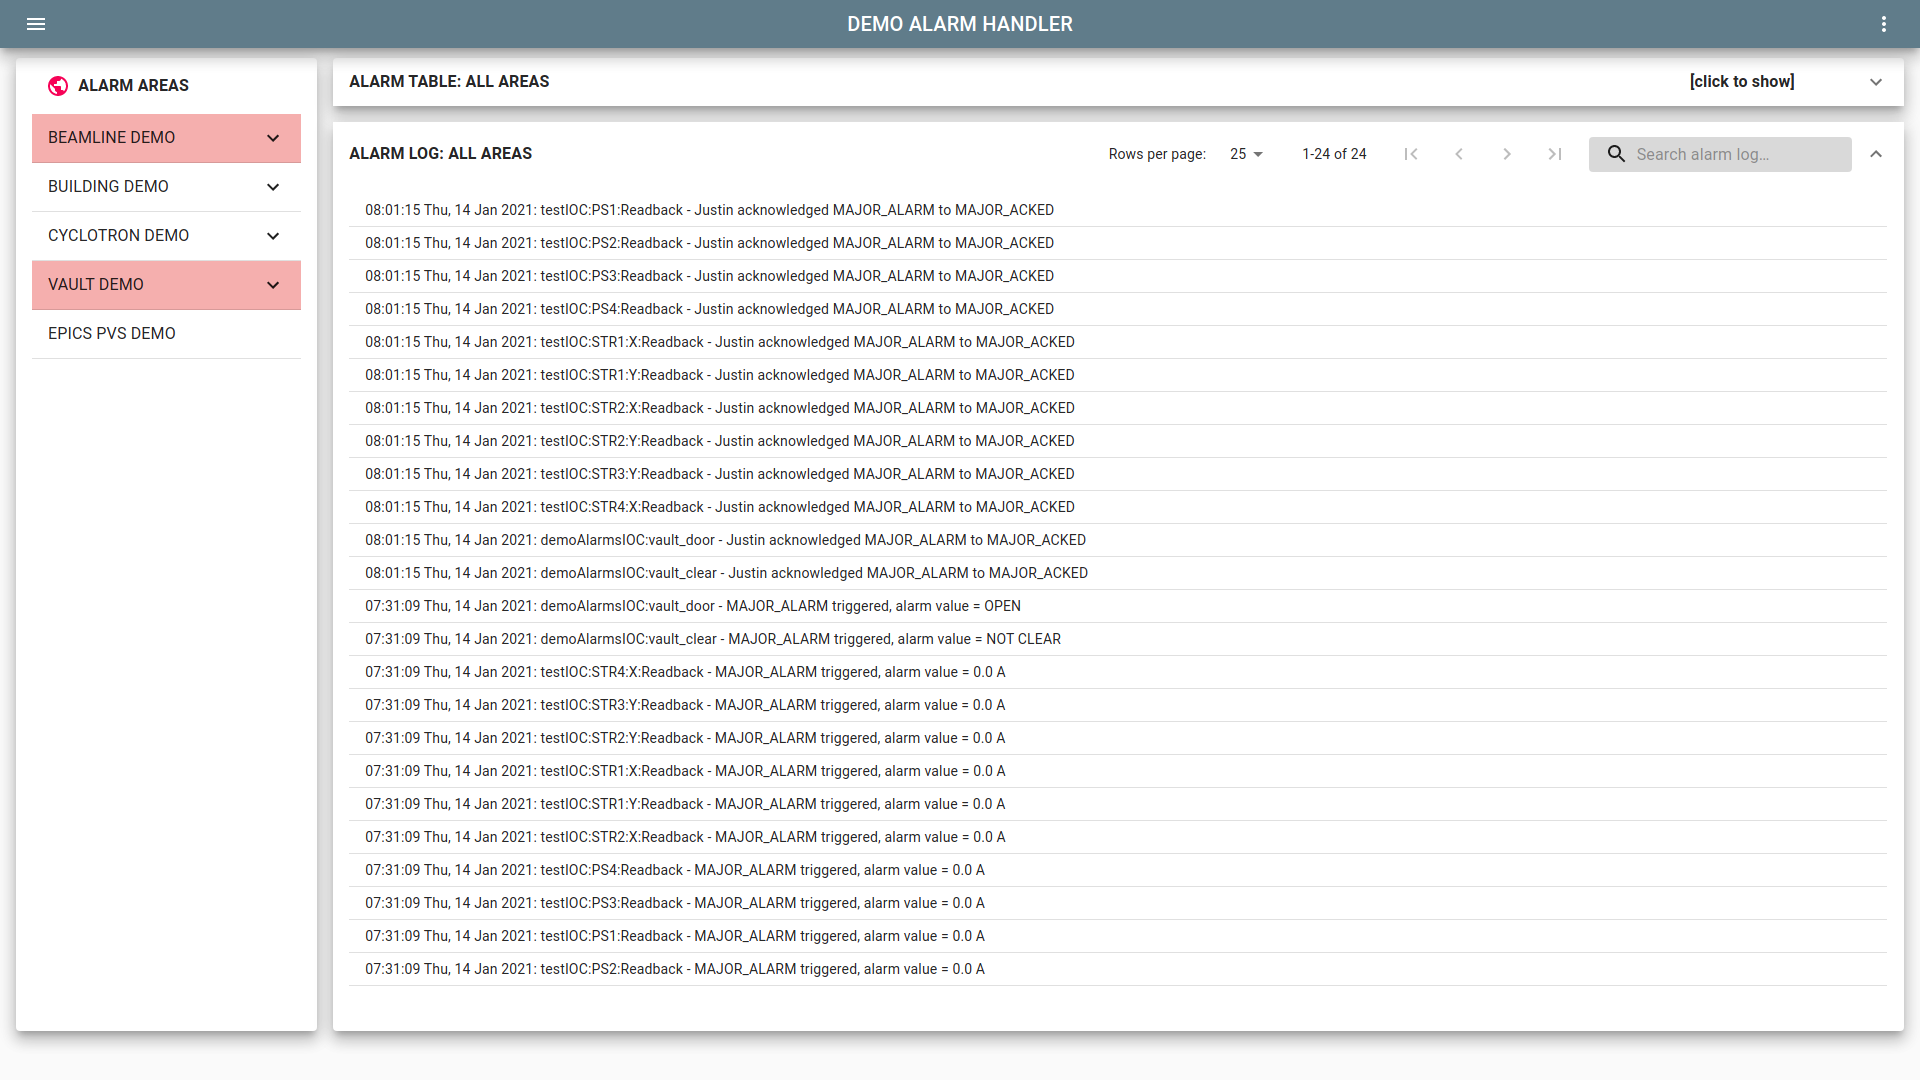
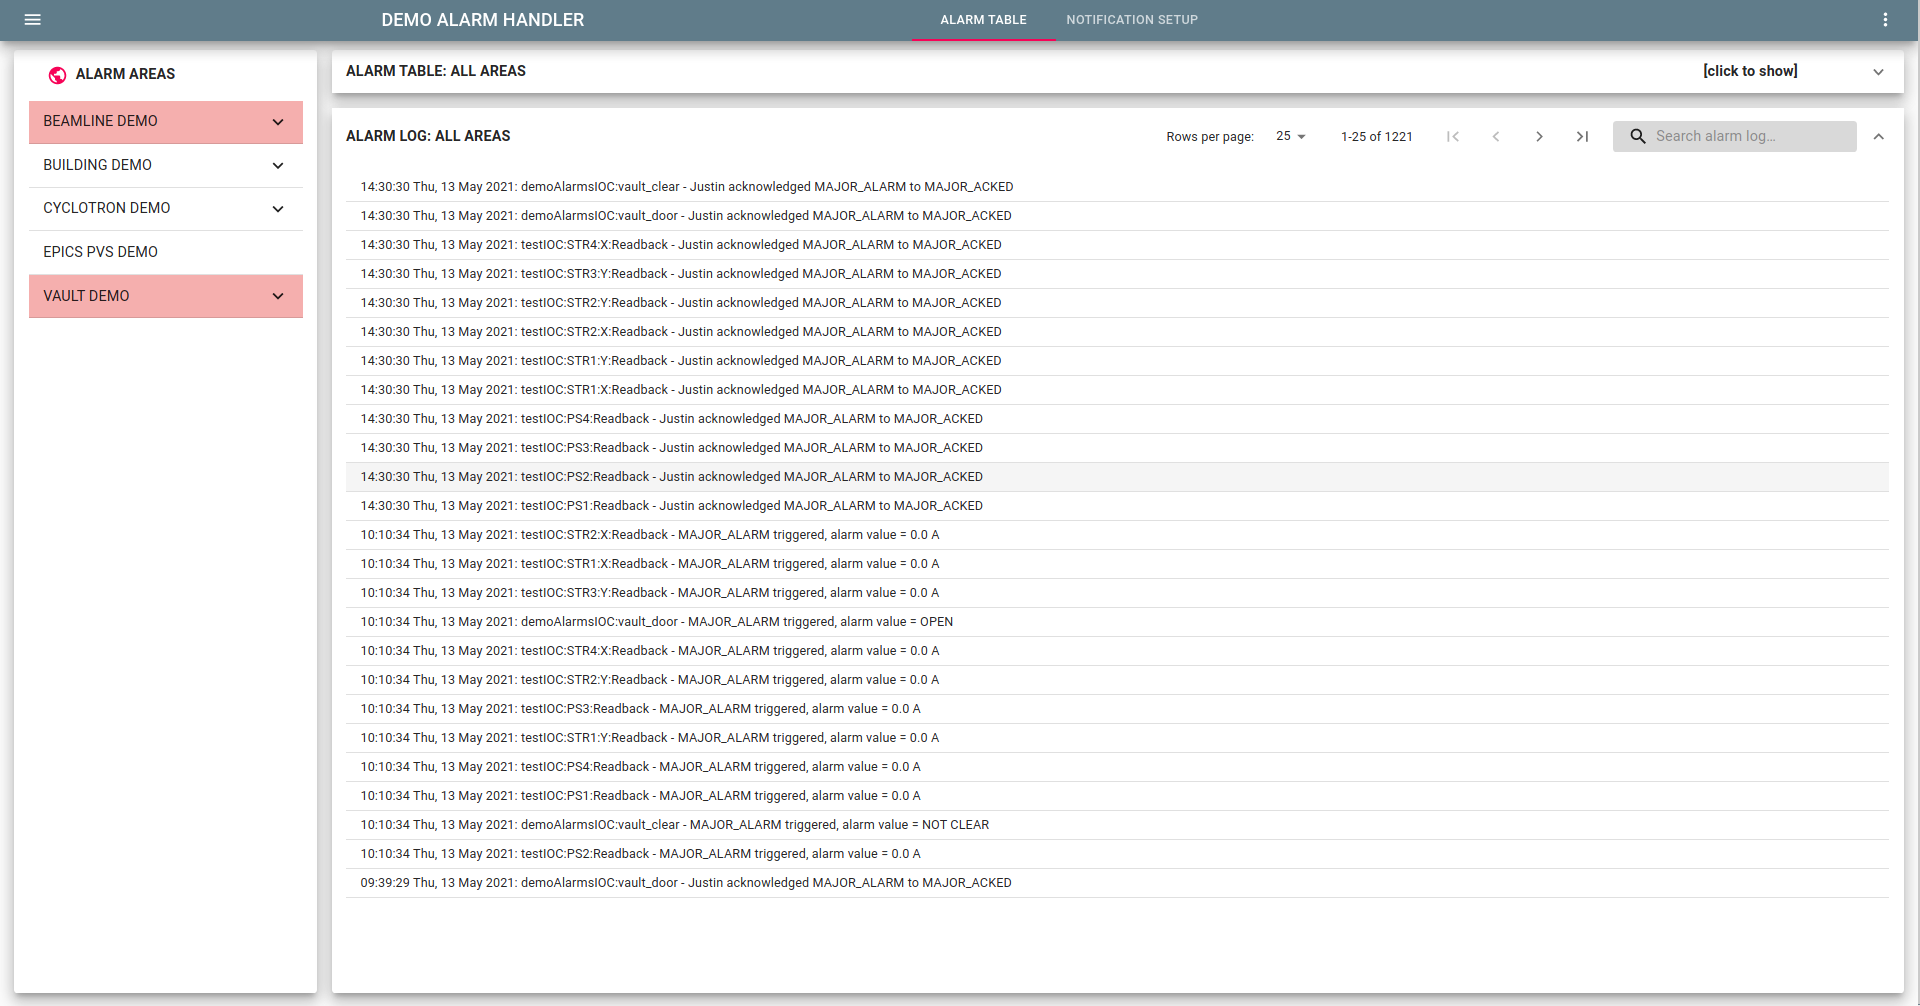
Update some of alarm handler docs

Changed region(s): [[0.1875, 0.1849, 0.5625, 0.9245], [0.0, 0.0, 1.0, 0.339], [0.0, 0.9553, 1.0, 1.0]]

diff --git a/ReactApp/styleguide.config.js b/ReactApp/styleguide.config.js
@@ -234,6 +234,14 @@ module.exports = {
                   content: 'src/docs/alarmHandler/environment.md',
                 },
                 {
+                  name: 'Setting up email notifications',
+                  content: 'src/docs/alarmHandler/emailNotification.md',
+                },
+                {
+                  name: 'Setting up Signal notifications',
+                  content: 'src/docs/alarmHandler/signalNotification.md',
+                },
+                {
                   name: 'MongoDB seed data',
                   content: 'src/docs/alarmHandler/seedData.md',
                   sections: [
@@ -246,8 +254,8 @@ module.exports = {
                       content: 'src/docs/alarmHandler/pvListJson.md',
                     },
                     {
-                      name: 'users.json',
-                      content: 'src/docs/alarmHandler/usersJson.md',
+                      name: 'Users',
+                      content: 'src/docs/alarmHandler/Users.md',
                     },
                   ]
                 },

diff --git a/ReactApp/src/docs/alarmHandler/alarmAreas.md b/ReactApp/src/docs/alarmHandler/alarmAreas.md
@@ -7,6 +7,7 @@ Each area can be expanded/contracted to reveal/hide the subAreas within that are
 |                                        BEAMLINE DEMO Area (subAreas hidden)                                         |                                       BEAMLINE DEMO Area (subAreas shown)                                       |
 | :-----------------------------------------------------------------------------------------------------------------: | :-------------------------------------------------------------------------------------------------------------: |
 | <img src="img/alarmHandler/alarmSetup_AlarmList_Contracted.png" alt="alarmSetup_AlarmList_Contracted" width="80%"/> | <img src="img/alarmHandler/alarmSetup_AlarmList_Expanded.png" alt="alarmSetup_AlarmList_Expanded" width="80%"/> |
+
 <center>*Area with subAreas hidden or shown*</center>
 
 <br/>
@@ -35,7 +36,25 @@ A disabled area/subArea is reflected with a grey colour as shown below. This fol
 <br/><br/>
 
 <br/>
-**Admin actions - Adding a new pv**
+**Global actions**
+
+The **ALARM AREAS** section also has a global button (_`world icon`_ on the top left) that a user can click (left click) to select all the areas (complete alarm handler). Right clicking this icon enables a user to acknowledge or enable/disable all the areas. This is shown below.
+
+<center><img src="img/alarmHandler/alarmSetup_AlarmList_Global.png" alt="alarmSetup_AlarmList_Global" width="35%"/></center>  
+<center>*Global alarm handler actions*</center>
+<br/><br/>
+
+<br/>
+**ADMINISTRATOR ACTIONS**
+
+A set of admin actions can also be executed from the **ALARM AREAS** list as shown below. Only alarmAdmin role users can execute these actions.
+
+<center><img src="img/alarmHandler/alarmSetup_AlarmList_Admin.png" alt="alarmSetup_AlarmList_Admin" width="35%"/></center>  
+<center>*Alarm admin actions on ALARM AREAS list*</center>
+<br/><br/>
+
+<br/>
+**Admin action - Add new pv**
 
 To add a new pv right click the relevant area/subArea and under the `Alarm admin actions` menu click on `Add new pv`. This opens up the add pv dialog as shown below. The `ADD` button of the dialog is disabled until a valid live pv name is typed in. Multiple pvs can be added simultaneously by clicking the `+` icon next to the pv name.
 
@@ -43,13 +62,18 @@ To add a new pv right click the relevant area/subArea and under the `Alarm admin
 <center>*Add pv dialog*</center>
 <br/><br/>
 
-**NOTE:** Only alarmAdmin role users can execute any alarm admin actions. 
+Pvs can be deleted through the **ALARM TABLE** as shown in the next section.
 
 <br/>
-**Global actions**
+**Admin action - Add new subArea**
 
-The **ALARM AREAS** section also has a global button (*`world icon`* on the top left) that a user can click (left click) to select all the areas (complete alarm handler). Right clicking this icon enables a user to acknowledge or enable/disable all the areas. This is shown below.
+To add a new subArea right click the relevant area and under the `Alarm admin actions` menu click on `Add new subArea`. This opens up the add subArea dialog as shown below. Roles can also be added to a given subArea. If roles are not defined the subArea is visible to all alarm users, if defined they're only visible to the roles specified.
 
-<center><img src="img/alarmHandler/alarmSetup_AlarmList_Global.png" alt="alarmSetup_AlarmList_Global" width="35%"/></center>  
-<center>*Global alarm handler actions*</center>
+<center><img src="img/alarmHandler/alarmSetup_addsubArea_dialog.png" alt="alarmSetup_addsubArea_dialog" width="60%"/></center>  
+<center>*Add subArea dialog*</center>
 <br/><br/>
+
+<br/>
+**Admin action - Edit/Delete subArea**
+
+To edit/delete an existing subArea click the relevant menu item under the `Alarm admin actions` menu.

diff --git a/ReactApp/src/docs/alarmHandler/alarmNotification.md b/ReactApp/src/docs/alarmHandler/alarmNotification.md
@@ -1,9 +1,14 @@
-The alarm handler can be configured to notify a user when an alarm is triggered. Currently the alarm handler can only notify via email. In future we hope to expand this to SMS and WhatsApp.
+The alarm handler can be configured to notify a user when an alarm is triggered. Currently the alarm handler can only notify via email or the Signal messenger app. In future we hope to expand this to SMS and WhatsApp.
 
 **Email notification**<br/>
 The alarm server uses the Python [smtplib module](https://docs.python.org/3/library/smtplib.html) to define an SMTP client session object that is used to send mail to a machine with an SMTP or ESMTP listener daemon.
 
-The SMTP server settings are configured through environment variables as shown in the section <b>Setting Up Alarm Server</b>. The `SMTP_USER` and `SMTP_PASS` variables do not need to be declared if the smtp server does not require login. Once the SMTP server settings have been configured correctly, users that have been set to notify via email in the user notification setup (see section <b>User notification view
+The SMTP server settings are configured through environment variables as shown in the section <b>Setting up email notifications</b>. The `SMTP_USER` and `SMTP_PASS` variables do not need to be declared if the smtp server does not require login. Once the SMTP server settings have been configured correctly, users that have been set to notify via email in the user notification setup (see section <b>User notification view
 </b>) will be notified via email.
+
+**Signal notification**<br/>
+The alarm server uses the Python [signal-cli-rest-api](https://github.com/SebastianLuebke/signal-cli-rest-api) to interact with the Signal command line interface through http requests.
+
+The Signal server settings are configured through environment variables as shown in the section <b>Setting up Signal notifications</b>. The Signal account must subsequently be linked to the server as described in the same section. Once the Signal server has been linked correctly, users that have been set to notify via Signal in the user notification setup (see section <b>User notification view </b>) will be notified via Signal.
 
 All notification events, including failures to notify, are logged in the global alarm handler log and can be viewed in the front end (user interface).

diff --git a/ReactApp/src/docs/alarmHandler/environment.md b/ReactApp/src/docs/alarmHandler/environment.md
@@ -11,11 +11,16 @@ The alarm server is deployed with the following default parameters:
 | AH\_DEBUG | false | Directive to print additional data useful for debugging the alarm handler to the terminal
 | AH\_TZ | Etc\/UTC (Canonical +00:00) | Time zone setting for alarm handler server. This is used when dates are formatted to strings for notification. Set as per https://en.wikipedia.org/wiki/List_of_tz_database_time_zones
 | | |
+| | |
 | SMTP_HOST | | SMTP server hostname. Required for alarm handler to notify alarm events via email
 | SMTP_PORT | | SMTP server port number. Required for alarm handler to notify alarm events via email
 | SMTP_SENDER | | SMTP sender email address. Required for alarm handler to notify alarm events via email
 | SMTP_USER | | Username to log into SMTP server. Optional - leave blank if no login required
 | SMTP_PASS | | Password to log into SMTP server. Optional - leave blank if no login required
+| | |
+| | |
+| SIGNAL\_CLI\_REST\_API\_PORT | 8000 | Python signal-cli-rest-api port
+| SIGNAL\_ACC\_NUMBER |  | Mobile number used for Signal account. Must be in E.164 format as per https://en.wikipedia.org/wiki/E.164
 </center>
 <center>*Table 1: Default alarm server configuration*</center>
 <br/><br/>
@@ -58,14 +63,6 @@ Edit .env file and set new timezone (as per https://en.wikipedia.org/wiki/List_o
 ```
 
 <br/>
-**Configuring SMTP server settings for email notification:**
-
-Edit .env file and set server settings (in this example login credentials have been omitted as the server does not require login):
-```bash
-    SMTP_HOST=smtpserver.lab.edu
-    SMTP_PORT=12345
-    SMTP_SENDER=alarmnotifier@lab.edu
-```
 
 **NOTE:** If the alarm database name is changed, upon restart of the alarm handler, a new database with the set name is created and initialised with seed data (see next section for details on seed data). **The alarm server will no longer point to the previous alarm database and historical alarm data will not be accessible!** For this reason it is recommended that the alarm database name is set as desired before deploying into production or saving critical data onto the database.
 

diff --git a/ReactApp/src/docs/alarmHandler/signalNotification.md b/ReactApp/src/docs/alarmHandler/signalNotification.md
@@ -1,0 +1,44 @@
+To enable Signal notifications first set the server port and the Signal account number through environment variables.
+
+The server port defaults to 8000 if not set.
+
+The Signal account number must be in E.164 format as per https://en.wikipedia.org/wiki/E.164 .
+
+Edit .env file and set:
+
+```bash
+    SIGNAL_ACC_NUMBER=+12345678901
+    SIGNAL_CLI_REST_API_PORT=8000
+```
+
+<br/>
+
+The next step is to link the Signal account (number above) to the server. **To link the device you will require a mobile smartphone with the Signal app installed and logged in with the above Signal account number.**
+
+On a browser navigate to the signal-cli-rest-api web server which can be found at http://localhost:8000/docs if RAS is running on the local PC or at http://XXX.XXX.XXX.XXX:8000/docs where XXX... is the IP of the remote server.
+
+<br/>
+
+You will be presented with the web interface below.
+
+<center>
+<img src="img/alarmHandler/signal-cli-rest-api.png" alt="signal-cli-rest-api" width="100%"/>
+</center>
+<center>*signal-cli-rest-api web server*</center>
+<br/><br/>
+
+To link the device follow the steps below:
+1. On the signal-cli-rest-api web server under the **register** methods click on **/register/{number}/link**
+2. Click on the **[Try it out]** button
+3. Enter the Signal account number (as above in E.164 format) in the **number** input field and click on the **[Execute]** button
+4. After a few seconds a response will be shown with a QR code, ensure the response code is 200 - HTTP OK success response
+5. In the Signal app on the mobile smartphone:
+   * Navigate to **Settings** > **Linked devices**
+   * Click on the **(+)** icon to link a new device
+   * Use the smartphone camera to scan the QR code shown on the webserver from above
+   * Click **Link device** when prompted
+   * A **Device approved** message will confirm that the device has been linked
+
+To verify the link on the server:
+   * Navigate from the React Automation Studio root folder to `./signalcli/signal-cli-config/data/`
+   * Verify that a file with filename of the Signal account number has been created at that location

diff --git a/ReactApp/src/docs/alarmHandler/alarmSetup.md b/ReactApp/src/docs/alarmHandler/alarmSetup.md
@@ -1,12 +1,4 @@
-The remainder of the user guide addresses the alarm handler user interface. This is comprised of two views - an alarm setup view and a user notification view.
-
-Use the moreVert drawer menu (three dots on top right) to switch between the alarm setup and user notification views as shown below.
-
-<center>
-<img src="img/alarmHandler/alarmSetup_userNotification_click2.png" alt="alarmSetup_userNotification_click" width="100%"/>
-</center>
-<center>*Navigating between alarm setup and user notification views using moreVert drawer menu*</center>
-<br/><br/>
+The remainder of the user guide addresses the alarm handler user interface. This is comprised of two views - an alarm table view and a notification setup view. Use the tabs on top to switch between the alarm table view and notification setup views.
 
 The alarm setup view comprises of three areas - the **ALARM AREAS** menu list, the **ALARM TABLE** and the **ALARM LOG** as shown below.
 

diff --git a/ReactApp/src/docs/alarmHandler/seedData.md b/ReactApp/src/docs/alarmHandler/seedData.md
@@ -1,10 +1,9 @@
-The first time the alarm handler is run an alarm database is created and initialised with seed data from three json files.
+The first time the alarm handler is run an alarm database is created and initialised with seed data from two json files.
 
 These files can be found, from the React Automation Studio root folder, at:
 ```bash
     ./alarmHandlerDbInit/initDBData/config.json
     ./alarmHandlerDbInit/initDBData/pvList.json
-    ./alarmHandlerDbInit/initDBData/users.json
 ```
 
 **NOTE:** Subsequent changes to these files will only take effect if you delete the existing alarm database or prune the Docker volume attached to the MongoDB server on which the alarm database resides. **This will result in all data stored in the previous alarm database being deleted permanently!** For this reason it is recommended that you set these files up correctly before starting the alarm server.

diff --git a/ReactApp/src/docs/alarmHandler/serverLogging.md b/ReactApp/src/docs/alarmHandler/serverLogging.md
@@ -6,9 +6,9 @@ The table below lists the alarm actions/events and parameters that the alarm ser
 | Alarm triggered          |     X     |      X       |    X     |          |
 | Alarm acknowledged       |     X     |      X       |          |    X     |
 | Alarm demoted            |     X     |      X       |          |          |
-| PV enabled/disabled      |     X     |              |          |          |
-| SubArea enabled/disabled |     X     |              |          |          |
-| Area enabled/disabled    |     X     |              |          |          |
+| PV enabled/disabled      |     X     |              |          |    X     |
+| SubArea enabled/disabled |     X     |              |          |    X     |
+| Area enabled/disabled    |     X     |              |          |    X     |
 </center>
 <center>*Table 4: Actions and events logged by alarm server*</center>
 <br/><br/>

diff --git a/ReactApp/src/docs/alarmHandler/alarmTable.md b/ReactApp/src/docs/alarmHandler/alarmTable.md
@@ -94,3 +94,13 @@ This checkbox will be disabled (greyed out) if the subArea/area to which the ala
 The NTFY checkbox allows a user to configure whether alarms from the pv should notify users.
 
 This checkbox will be disabled (greyed out) if the subArea/area to which the alarm pv belongs in disabled.
+
+<br/>
+**ADMINISTRATOR ACTIONS**
+
+Pvs can be deleted from the **ALARM TABLE**. Only alarmAdmin role users can execute these actions.
+
+<br/>
+**Admin action - Delete pv**
+
+To delete a pv right click the relevant pv row in the **ALARM TABLE** and under the `Alarm admin actions` menu click on `Delete pv`.

diff --git a/ReactApp/src/docs/alarmHandler/pvListJson.md b/ReactApp/src/docs/alarmHandler/pvListJson.md
@@ -120,4 +120,4 @@ and each subArea{k} object is defined as:
 
 From these definitions it is clear that a user can define a custom number of areas, each with a custom number of pvs and subAreas.
 
-**NOTE:** It is currently only possible to add new pvs from the front end (user interface). It is not possible to add or remove areas nor subAreas in a controlled manner from the front end. It is envisaged that this will be done in a future release.
+**NOTE:** It is possible to add/remove pvs, areas and subAreas from the front end (user interface) in a controlled manner.

diff --git a/ReactApp/src/docs/alarmHandler/emailNotification.md b/ReactApp/src/docs/alarmHandler/emailNotification.md
@@ -1,0 +1,17 @@
+To enable email notifications the SMTP server settings must be set through environment variables.
+
+Edit .env file and set server settings (in this example login credentials have been omitted as the server does not require login):
+```bash
+    SMTP_HOST=smtpserver.lab.edu
+    SMTP_PORT=12345
+    SMTP_SENDER=alarmnotifier@lab.edu
+```
+
+If you require server login set .env file as:
+```bash
+    SMTP_HOST=smtpserver.lab.edu
+    SMTP_PORT=12345
+    SMTP_SENDER=alarmnotifier@lab.edu
+    SMTP_USER=username
+    SMTP_PASS=password
+```

diff --git a/ReactApp/src/docs/alarmHandler/Users.md b/ReactApp/src/docs/alarmHandler/Users.md
@@ -1,0 +1,1 @@
+The users are seeded from the administrator user database on initialisation and subsequent restarts.
